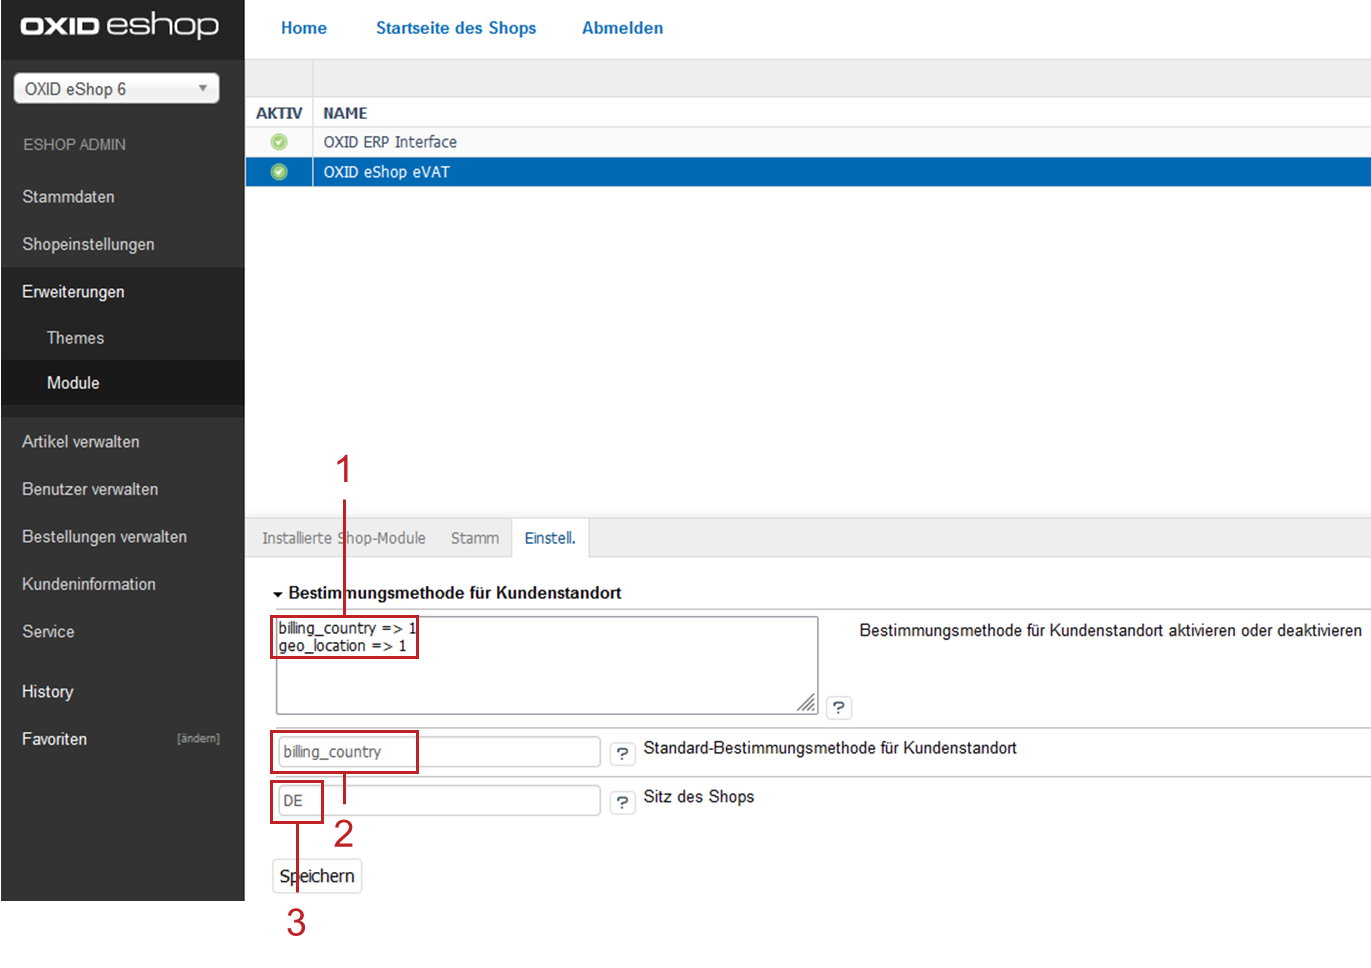
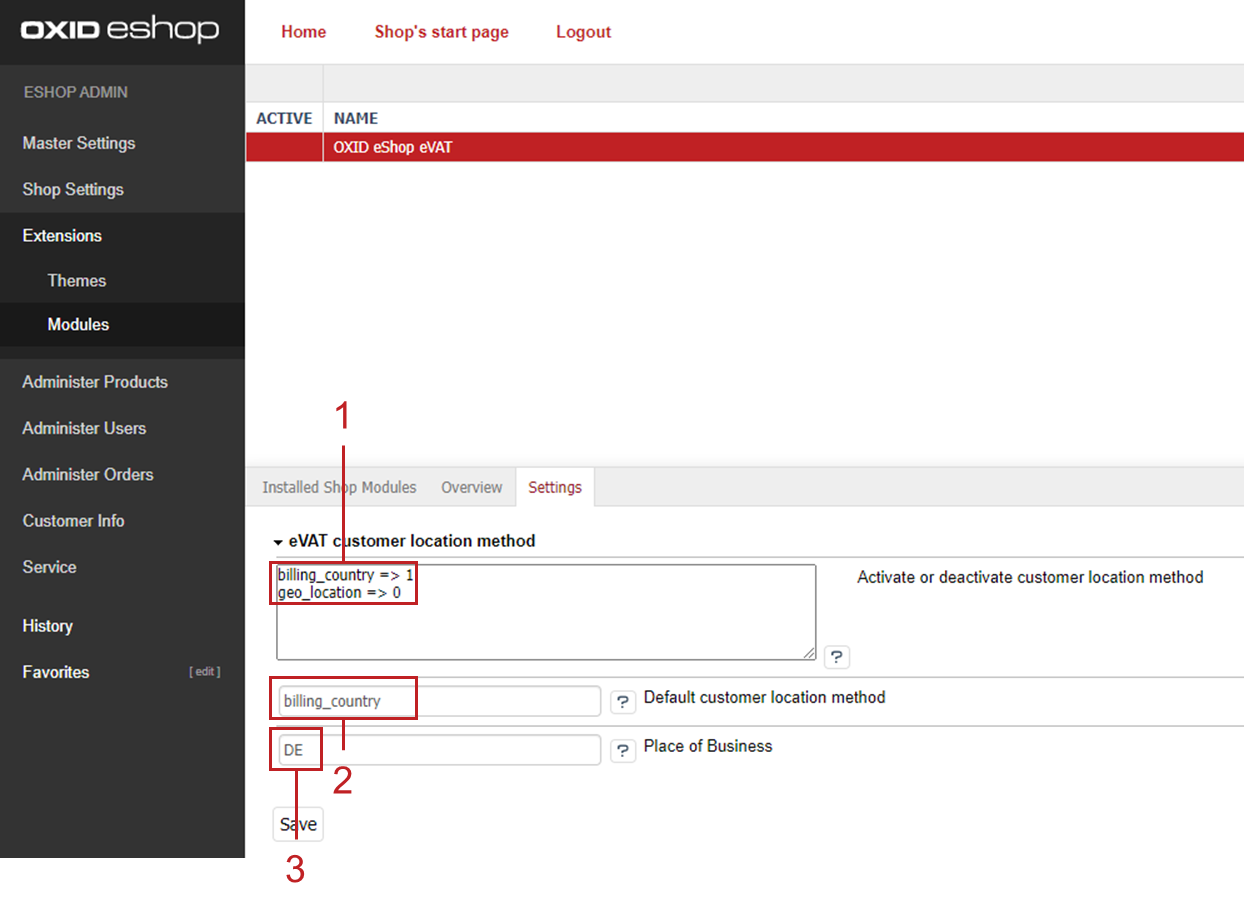
eVAT 2.1 finalised -- DE

Changed region(s): [[0.0, 0.0, 1.0, 0.9803]]

diff --git a/conf.py b/conf.py
@@ -68,7 +68,7 @@ author = 'OXID eSales AG'
 # built documents.
 #
 # The short X.Y version.
-version = '2.0'
+version = '2.1'
 # The full version, including alpha/beta/rc tags.
 release = '2'
 
@@ -133,13 +133,13 @@ todo_include_todos = True
 html_theme = 'sphinx_rtd_theme'
 
 html_context = {
-    'current_version': '2.0',
+    'current_version': '2.1',
     'versions':
-        [('2.0', 'https://docs.oxid-esales.com/modules/vat_tbe_services/en/2.0/'),
+        [('2.0', 'https://docs.oxid-esales.com/modules/vat_tbe_services/en/2.1/'),
          ],
     'languages':
-       [('DE', 'https://docs.oxid-esales.com/modules/vat_tbe_services/de/2.0/'),
-        ('EN', 'https://docs.oxid-esales.com/modules/vat_tbe_services/en/2.0/')],
+       [('DE', 'https://docs.oxid-esales.com/modules/vat_tbe_services/de/2.1/'),
+        ('EN', 'https://docs.oxid-esales.com/modules/vat_tbe_services/en/2.1/')],
     'css_files': [('_static/oxid.css')],
     'theme_logo_only': True,
     'show_sphinx': False,

diff --git a/configuration.rst b/configuration.rst
@@ -107,9 +107,7 @@ Alternatively: Mark all items in a category as electronic products or services (
 
 |procedure|
 
-.. todo: #tbd: oxdakb02.png auf EN ergänzen
-
-1. Choose :menuselection:`Administer Products --> Products`.
+1. Under :menuselection:`Administer Products --> Products`, choose the product.
 #. Choose :guilabel:`eVAT Settings` tab.
 #. Choose the :guilabel:`Product is a telecommunication, broadcasting or electronic service` checkbox (:ref:`oxdakb02`, item 1).
 #. Assign the applicable VAT rates for each country to the item.
@@ -168,9 +166,9 @@ Mark all items in a category as electronic products or services.
 .. figure:: /media/screenshots/oxdakb03.png
    :class: with-shadow
    :width: 650
-   :alt: Defining itmes of a category as electronic services
+   :alt: Defining items of a category as electronic services
 
-   Fig.: Defining itmes of a category as electronic services
+   Fig.: Defining items of a category as electronic services
 
 Configuring the customer location determination
 ^^^^^^^^^^^^^^^^^^^^^^^^^^^^^^^^^^^^^^^^^^^^^^^
@@ -184,23 +182,15 @@ The Implementing Regulation (EU) No 1042/2013 requires that the country of origi
 
 The customer's location must be determined by at least two checks. Simply indicating the customer in the ordering process is not sufficient; you must verify the customer's information.
 
-.. todo: #SB/#Joe check: a) Is the legal requirement valid, b) do we meet it?: "The sole indication of the customer in the ordering process is not sufficient, you must check the customer's indication."
-    The customer specifies his billing address in the ordering process. The module checks the billing address. So we have only 1 determination method.
-
-.. todo: #SB/#Joe: Check: Do we need the countryVAT module as a 2nd method, can we use it to meet the legal requirement?
-
 The :productname:`OXID eShop eVAT` module uses the customer's billing address to determine the customer location.
 
 You can add custom determination methods if needed (see :ref:`extension:Adding a method to determine the customer location`).
 
 |Procedure|
 
-.. todo: #tbd: oxdakb04.png auf EN ergänzen
-.. todo: #tbd: verifizieren: :guilabel:`Determination method for customer location`, :guilabel:`Determine customer location using billing address`
-
 1. Choose :menuselection:`Extensions --> Modules`.
 #. Choose the :guilabel:`OXID eShop eVAT` module and choose the :guilabel:`Settings` tab.
-#. Under :guilabel:`Determination method for customer location`, make sure that the :guilabel:`Determine customer location using billing address` determination method is enabled.
+#. Under :guilabel:`eVAT customer location method`, make sure that the :guilabel:`Determine customer location using billing address` determination method is enabled.
    |br|
    To do this, do the following:
 
@@ -223,9 +213,7 @@ You can add custom determination methods if needed (see :ref:`extension:Adding a
 
    .. note::
 
-      The determination method geolocation is not implemented.
-
-      .. todo: #SB/#HR: Can we disable Geolocation so it doesn't appear in the field by default? -- comes away or --> 0
+      The :code:`geo_location` determination method is not implemented.
 
 #. Save your settings.
 
@@ -242,28 +230,19 @@ Verifying the store location
 
 Make sure that the store location is configured correctly.
 
-.. todo: #HR/#SB: The following is not true: no or wrong country identifier has no effect; what is the expected behavior?
-
-
+.. todo: #tb:: add as of V.3
     |background|
-
     The system checks if a customer is from the same country where the store is located.
-
     If this is the case, the VAT rate defined as default for the store will be used to calculate the value of goods.
-
     If you enter an invalid country code, the store behaves as if no country is entered.
-
     Items representing telecommunication, radio, television and electronically provided services will not be marked as such.
-
     No related messages will be displayed.
 
 |procedure|
 
-.. todo: Verify :guilabel:`Shop location` field,
-
 1. Choose :menuselection:`Extensions --> Modules`.
-#. Choose the :guilabel:`eVAT` module and choose the :guilabel:`Settings` tab.
-#. In the :guilabel:`Shop location` field, enter the country code for the store location in ISO2 format (in our example :code:`de` for Germany: :ref:`oxdakb04`, item 3).
+#. Choose the :guilabel:`OXID eShop eVAT` module and choose the :guilabel:`Settings` tab.
+#. In the :guilabel:`Place of Business` field, enter the country code for the store location in ISO2 format (in our example :code:`de` for Germany: :ref:`oxdakb04`, item 3).
 
 Configuring PDF Invoice
 -----------------------
@@ -349,9 +328,6 @@ In our following example, you will ensure compatibility for the :productname:`Pa
    |br|
    For more information, see your payment module documentation.
 #. If your payment module does not allow you to disable the quick purchase feature, disable the payment module for the electronic items.
-
-.. todo: #SB: PayPal Plus: a doc: HR ask: who is prod manager -> good question, #SB ask :D. Otherwise interesting, should try if this really still works with the previous PayPal module with store 6.5.x like this. And what about checkout via GraphQL then?
-.. todo: #tbd: redo image DE & EN
 
 .. _oxdakb06:
 

diff --git a/intro.rst b/intro.rst
@@ -3,6 +3,8 @@
 
 With the :productname:`OXID eShop eVAT` module, integrate the taxation of telecommunication, broadcasting, television and electronically provided services into your OXID eShop.
 
+For this purpose :productname:`OXID eShop eVAT` determines the customer location using the :emphasis:`billing address` of the customer and calculates the respective VAT accordingly.
+
 Legal basis
 -----------
 
@@ -35,10 +37,12 @@ Your benefits
 * Take advantage of
 
   * the logging of the customer's location when ordering electronic products or services
-  * the logging of the VAT ID number including date and time as proof for taxable customers ("business (taxable person)").
+  * the logging of the VAT ID number as proof for taxable customers ("business (taxable person)").
     |br|
     For taxable customers, the invoice will show the net price without VAT.
 * Extend :productname:`OXID eShop eVAT` with custom determination methods if required.
+
+.. todo: #tbd V.3: "the logging of the VAT ID number including date and time as proof for taxable customers ("business (taxable person)").
 
 How it works
 ------------

diff --git a/operation.rst b/operation.rst
@@ -3,9 +3,9 @@ Operation
 
 Use the following functions of the :productname:`OXID eShop eVAT` module during operation:
 
-* Display customer location in the order
-* Display sales tax identification number
-* Use PDF invoice extension
+* Displaying the customer location in the order
+* Displaying the sales tax identification number
+* Using the PDF invoice extension
 
 Displaying the customer location in an order
 --------------------------------------------
@@ -54,10 +54,9 @@ Customers can provide the VAT ID when registering or during the ordering process
 
 |result|
 
-The VAT ID is displayed with the date and time it was entered (:ref:`oxdakd02`, item 1).
+The VAT ID is displayed (:ref:`oxdakd02`, item 1).
 
-.. todo: #HR: the timestamp is not displayed (anymore)) -- bug, will be fixed
-.. todo: tbd: Redo image DE/EN
+.. todo: #tbd 3.0: "with the date and time it was entered"
 
 .. _oxdakd02:
 

diff --git a/installation.rst b/installation.rst
@@ -36,7 +36,6 @@ Install the module :productname:`OXID eShop eVAT` for OXID eShop version 6.0 and
 #. Confirm the queries.
 #. Optional: Delete all files and folders except :file:`.htaccess` from the :file:`/tmp` directory of the store.
 
-.. todo: #HR:  composer require oxid-esales/evat-module:^2.0 führt zu  "Metadata version 1.2 is not supported"
 
 |result|
 

diff --git a/index.rst b/index.rst
@@ -11,7 +11,7 @@ Module Dokumentation
    Configuration <configuration>
    Operation <operation>
    Extension <extension>
-   Changelog (GitHub) ➜ <https://github.com/OXID-eSales/vat_tbe_services/blob/master/CHANGELOG.md>
+   Changelog (GitHub) ➜ <https://github.com/OXID-eSales/vat_tbe_services/blob/v2.1.0/CHANGELOG.md>
 
 
 .. image:: media/icons/home.png

diff --git a/extension.rst b/extension.rst
@@ -109,8 +109,6 @@ Color highlighting makes it easier for your customer to identify the item in que
 
 In our example, the item name in the shopping cart is highlighted in red (:ref:`oxdake01`, item 1).
 
-.. todo: tbd: Bild EN erg.
-
 .. _oxdake01:
 
 .. figure:: /media/screenshots/oxdake01.png
